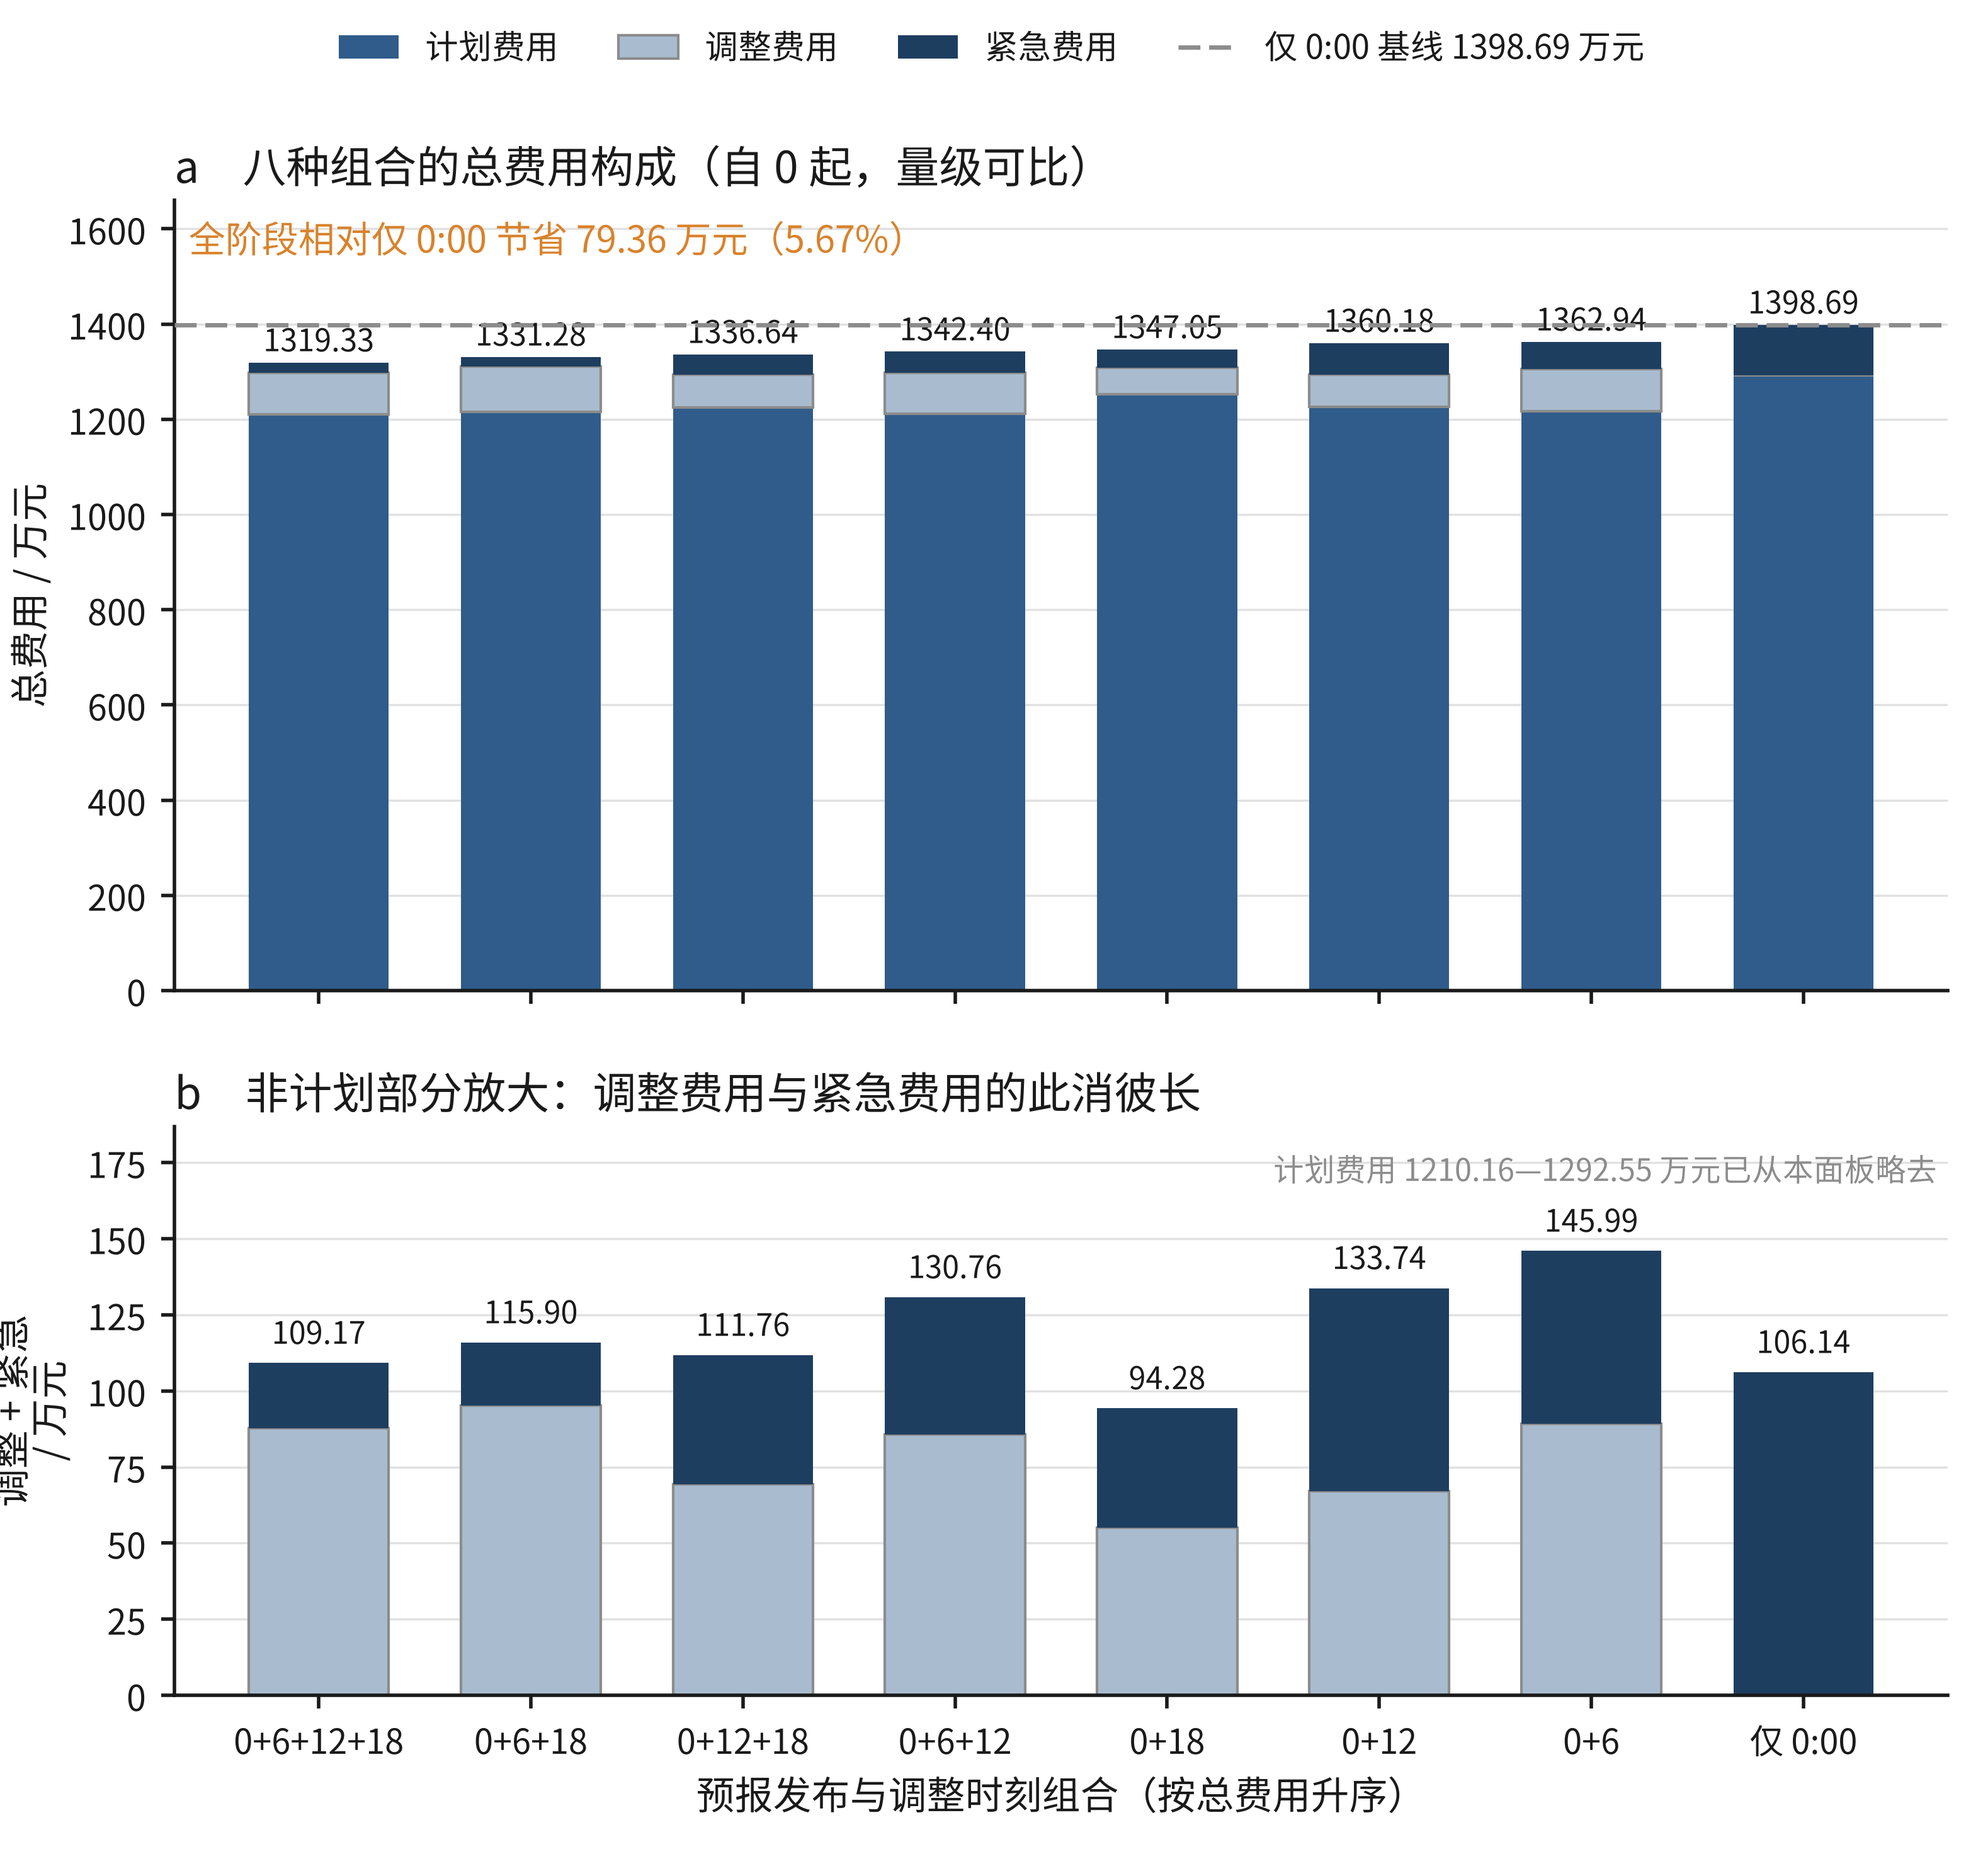
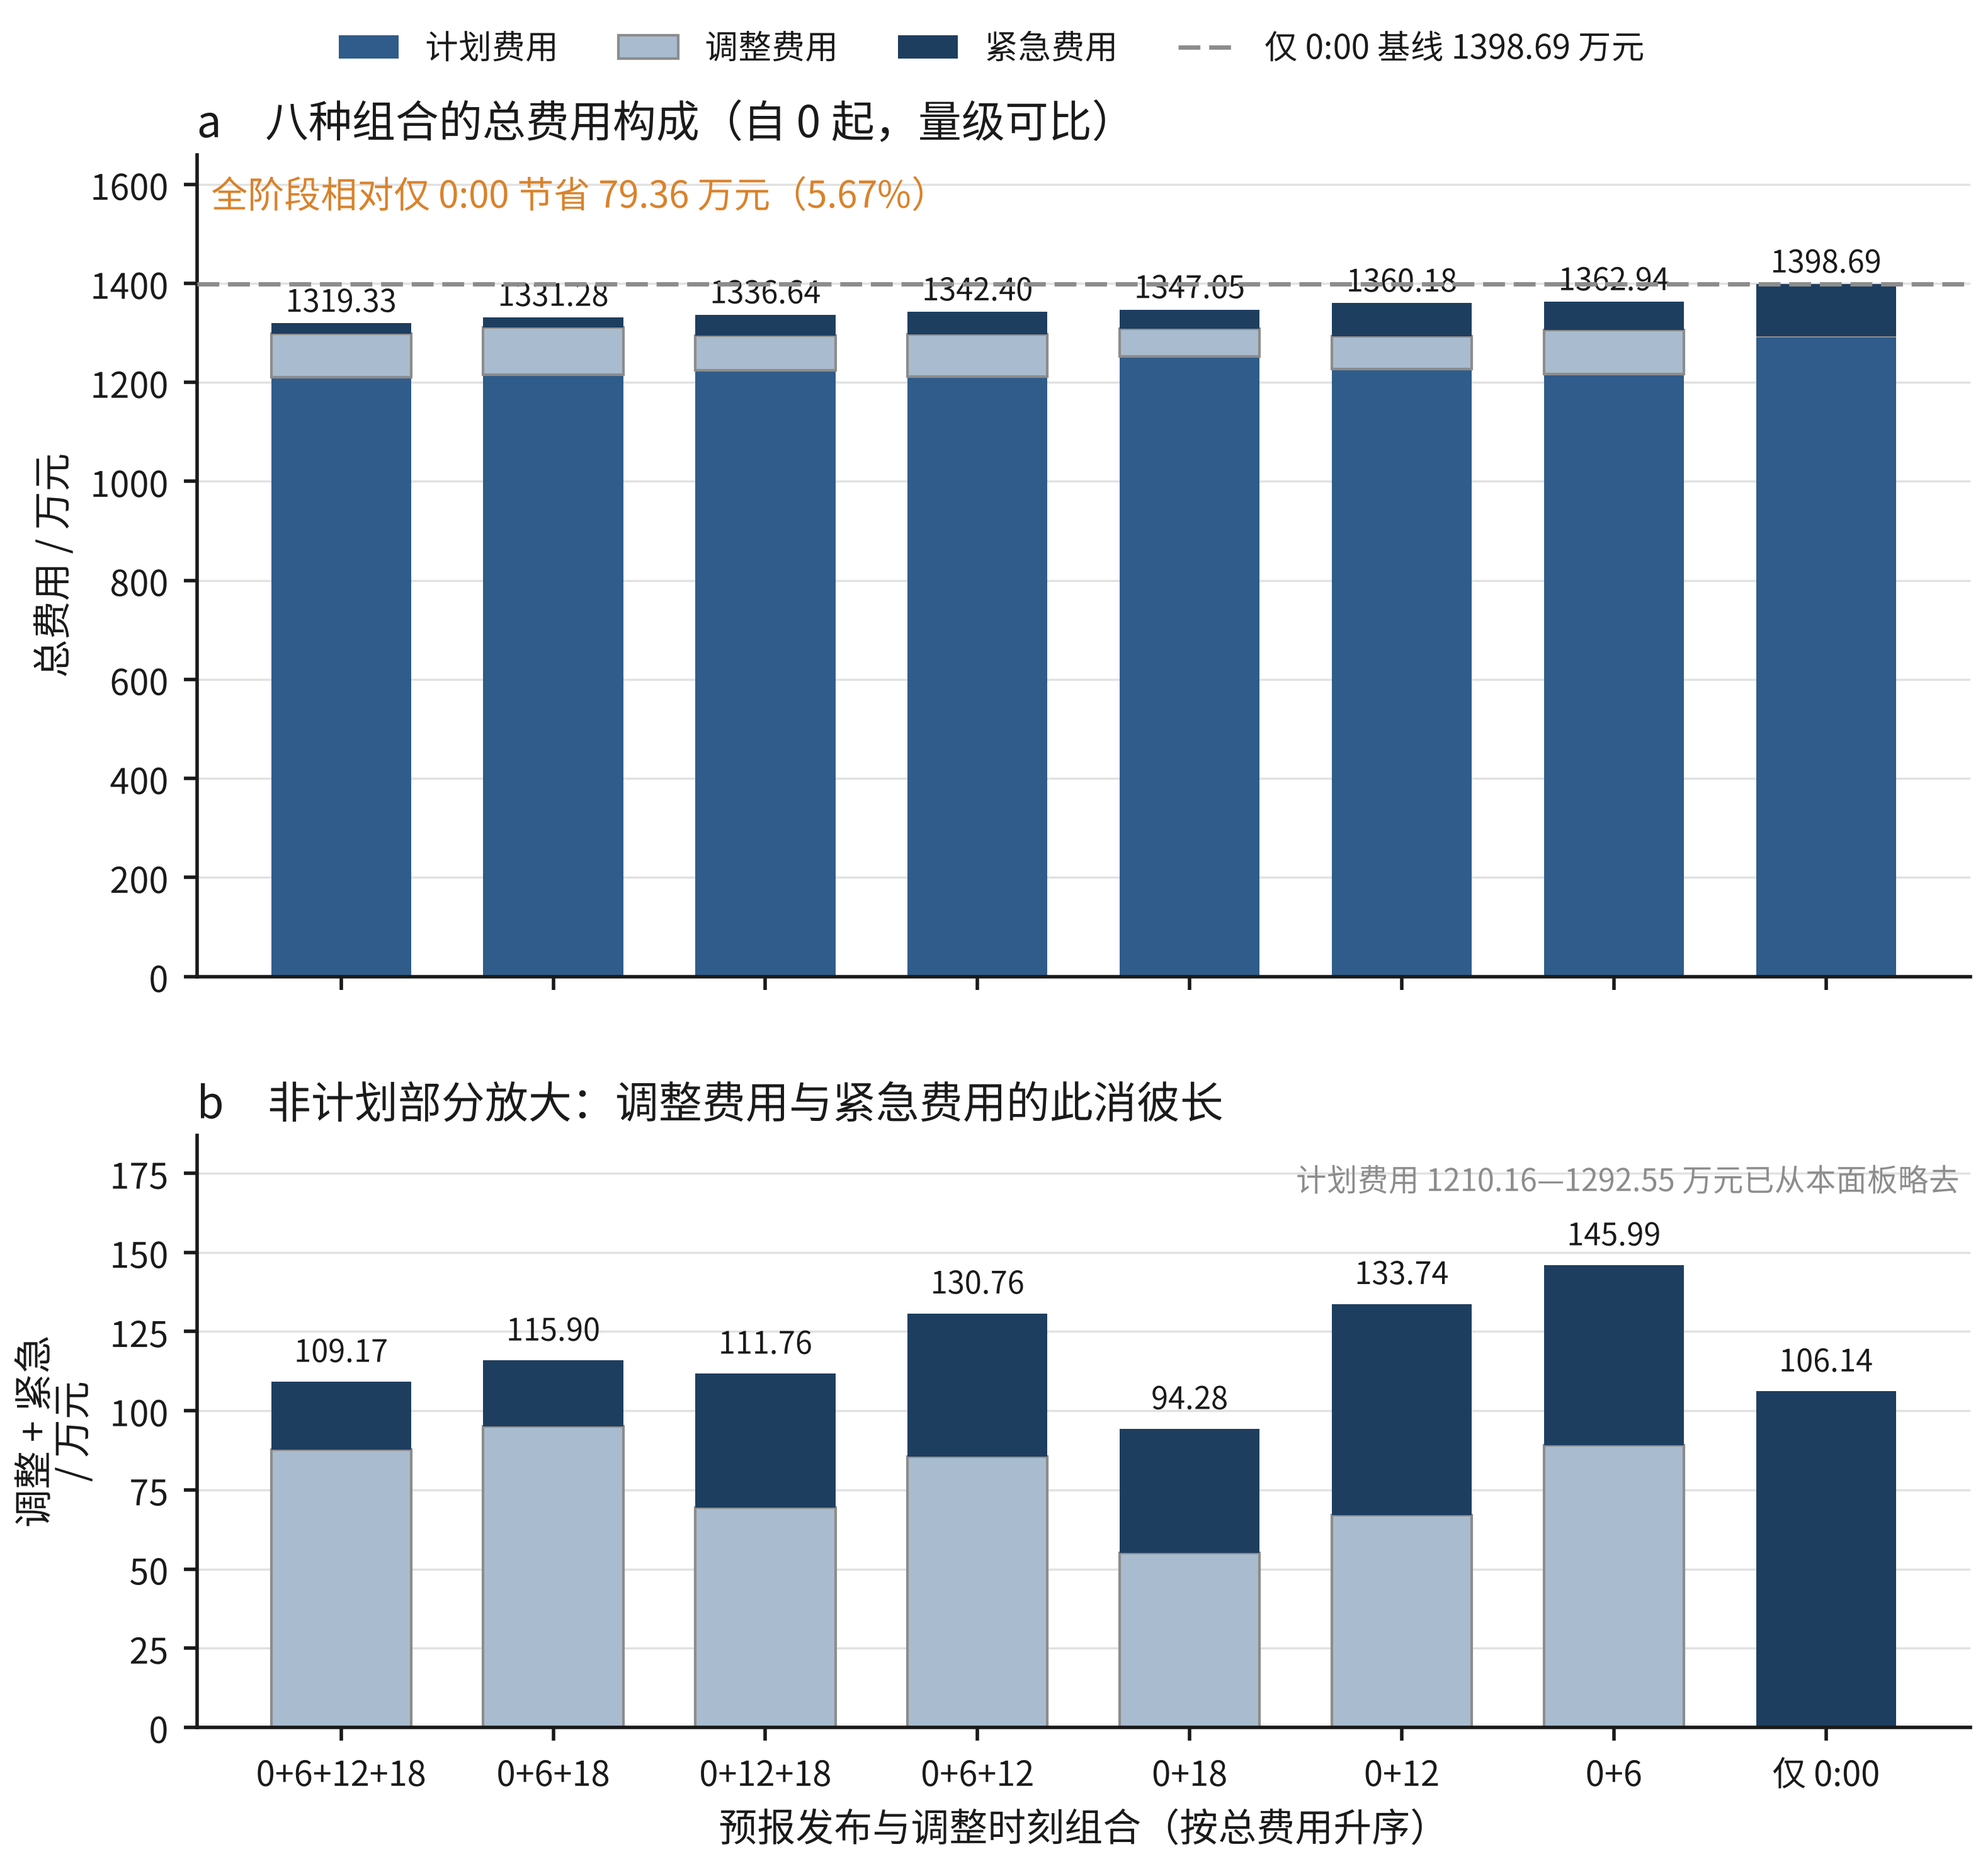
修复两处图件越出画布的刻度与轴标签
图6-4（fig_6_3_q3_stage_cost_composition）两个面板的纵轴标签都是两行竖排
（「总费用」/「万元」、「调整 + 紧急」/「万元」），而 gridspec 手工给的
left=0.088 小于「标签宽 + 刻度标签宽」所需的边距，最左侧那行字被画到画布外
裁掉——实测最左有墨列正是第 0 列，其余图件都有约 22 px 留白。改用
constrained 布局按内容算边距，行距交给布局引擎的 hspace；最左侧留白恢复
到 22 px。

图5-2（fig_5_2_pv_forecast_interpolation）两个面板的首末刻度正好落在轴端
（面板 a 的 00:00 / 24:00，面板 b 的 18:00 / 20:00），标签居中会各越出半个
字宽，24:00 一路顶到画布右缘只剩 2 px。按图5-3 已有的做法改为向内对齐
（首刻度 ha="left"、末刻度 ha="right"），右侧留白恢复到 66 px。

其余图件留白复核 12—29 px，无贴边。render_paper_figures.py 全量运行
51 项核对全部通过。

Changed region(s): [[0.0, 0.0312, 0.9648, 0.6233], [0.0, 0.6233, 0.9959, 0.9973]]

diff --git a/scripts/scripts/render_paper_figures.py b/scripts/scripts/render_paper_figures.py
@@ -526,9 +526,13 @@ def fig_6_3(q3: dict) -> None:
     base = st["totals"]["0-only"] / 1e4
     saving = st["saving"]
 
-    fig = plt.figure(figsize=(FULL_WIDTH_MM * MM, 150 * MM))
-    gs = fig.add_gridspec(2, 1, height_ratios=[1.0, 0.72], hspace=0.20,
-                          left=0.088, right=0.982, top=0.892, bottom=0.088)
+    # 交给 constrained 布局排边距：两面板的纵轴标签都是两行竖排
+    # （「总费用」/「万元」），手工给的 left 一旦小于它们加刻度标签的宽度，
+    # 最左侧那行字就会被画到画布外裁掉。行距改用布局引擎的 hspace 控制。
+    fig = plt.figure(figsize=(FULL_WIDTH_MM * MM, 150 * MM),
+                     layout="constrained")
+    gs = fig.add_gridspec(2, 1, height_ratios=[1.0, 0.72])
+    fig.get_layout_engine().set(hspace=0.09)
     # 紧急费用改用深蓝阶梯而非橙色：左上角的橙色文字已经在讲「节省」，
     # 同一坐标系里再放橙色柱，橙色会同时指向成本与收益两个相反含义。
     # 三段蓝的相邻边界灰阶为 84|185 与 185|56，黑白打印下逐界可分。

diff --git a/scripts/scripts/render_pv_interpolation_figure.py b/scripts/scripts/render_pv_interpolation_figure.py
@@ -186,6 +186,11 @@ def day_ticks(ax):
     ax.set_xlim(0, 1440)
     ax.set_xticks(np.arange(0, 1440 + 1, 120))
     ax.set_xticklabels([hm(v) for v in np.arange(0, 1440 + 1, 120)])
+    # 首末刻度正好落在轴的两端，标签居中会各越出半个字宽：24:00 一直顶到
+    # 画布右缘（只剩 2 px），与其余图件的 ~22 px 留白不一致。改为向内对齐，
+    # 与图5-3 的处理相同。
+    ax.get_xticklabels()[0].set_ha("left")
+    ax.get_xticklabels()[-1].set_ha("right")
 
 
 def draw(ax, c: dict, xlim, ylim, *, show_prefix: bool, lw_main: float = 1.5):
@@ -295,6 +300,8 @@ def fig_5_2(c: dict, stats: dict) -> None:
                   loc="left", pad=6)
     axb.set_xticks(np.arange(x0, x1 + 1, 30))
     axb.set_xticklabels([hm(v) for v in np.arange(x0, x1 + 1, 30)])
+    axb.get_xticklabels()[0].set_ha("left")       # 18:00 落在左端
+    axb.get_xticklabels()[-1].set_ha("right")     # 20:00 落在右端，居中会越出画布
     axb.axhline(0, color=INK, lw=0.7, zorder=3)
 
     # 最低点位于 19:20，注记向左展开，避免越出右边界

diff --git a/论文修订/论文修订/figures/figure_captions.md b/论文修订/论文修订/figures/figure_captions.md
@@ -1,6 +1,6 @@
 # 论文图件图注与分析
 
-生成脚本：`scripts/scripts/render_paper_figures.py`（版本 3.0.0）　生成时间：2026-09-13T11:23:10
+生成脚本：`scripts/scripts/render_paper_figures.py`（版本 3.0.0）　生成时间：2026-09-13T11:28:46
 
 本文件同时收录由同级脚本生成的图件，各自的数据源与自检见各脚本：`scripts/scripts/render_pv_interpolation_figure.py`（`fig_5_2_pv_forecast_interpolation`）；`scripts/scripts/render_data_characteristics_figure.py`（`fig_5_3_annual_data_heatmap`）；`scripts/scripts/render_dispatch_overview_figure.py`（`fig_6_1_q1_price_and_storage_dispatch`）；`scripts/scripts/render_period_cost_figure.py`（`fig_6_2_q1_period_cost_difference`）。
 
